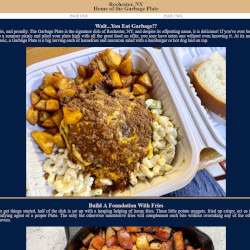
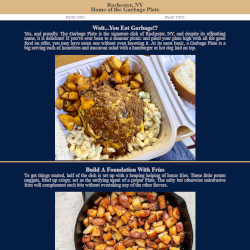
Add final 2-5 site files
Adjust 2-5-1 for image content, add 2-5-2 files, update main portfolio page

diff --git a/ChallengeActivities.html b/ChallengeActivities.html
@@ -109,7 +109,7 @@
                     <a href="Assignments/Challenge/2-5-1Story/story_layout1.html">
                     <img src="Assignments/Challenge/2-5-1Story/images/screengrab1.jpg"
                         alt="Story Website One"></a>
-                    <h4>Assignment 2-5</h4>
+                    <h4>Assignment 2-5-1</h4>
                     <a href="Assignments/Challenge/2-5-1Story/story_layout1.html">
                         <h2>Activity Page<br>Story Page One</h2></a>
                     <p>
@@ -121,7 +121,7 @@
                     </q>
                     </p>
                     <div class="details">
-                        Completed: 5.10.23<br>Final Grade: Pending
+                        Completed: 5.12.23<br>Final Grade: Pending
                     </div>
                 </div>
             </li>
@@ -130,7 +130,7 @@
                     <a href="Assignments/Challenge/2-5-1Story/story_layout2.html">
                     <img src="Assignments/Challenge/2-5-1Story/images/screengrab2.jpg"
                         alt="Story Website Two"></a>
-                    <h4>Assignment 2-5</h4>
+                    <h4>Assignment 2-5-1</h4>
                     <a href="Assignments/Challenge/2-5-1Story/story_layout2.html">
                         <h2>Activity Page<br>Story Page Two</h2></a>
                     <p>
@@ -142,11 +142,30 @@
                     </q>
                     </p>
                     <div class="details">
-                        Completed: 5.10.23<br>Final Grade: Pending
+                        Completed: 5.12.23<br>Final Grade: Pending
                     </div>
                 </div>
             </li>
-
+            <li>
+                <div>
+                    <a href="Assignments/Challenge/2-5-2Schedule/myschedule.html">
+                    <img src="Assignments/Challenge/2-5-2Schedule/images/screengrab.jpg"
+                        alt="Story Website Two"></a>
+                    <h4>Assignment 2-5-2</h4>
+                    <a href="Assignments/Challenge/2-5-2Schedule/myschedule.html">
+                        <h2>Activity Page<br>My Schedule</h2></a>
+                    <p>
+                    #SummerLiving<br>
+                    <q>Tables make sense, but definately require a bit of code
+                        and check to ensure everything is lining up. Thank
+                        goodness we were able to skip some rows, seeing a day
+                        so filled up with sleeping made me feel unproductive!</q>
+                    </p>
+                    <div class="details">
+                        Completed: 5.12.23<br>Final Grade: Pending
+                    </div>
+                </div>
+            </li>
             <li>
                 <div>
                     <img src="Assignments/comingsoon.jpg"

diff --git a/Assignments/Challenge/2-5-2Schedule/myschedule.html b/Assignments/Challenge/2-5-2Schedule/myschedule.html
@@ -22,7 +22,7 @@
       <h1>Chris' Schedule Summer 2023</h1>
     </header>
 
-    <article>
+    <div class="tableContainer">
       <table>
          <caption>Study Blocks Subject to Extention as Needed</caption>
          <colgroup>
@@ -111,23 +111,23 @@
             </tr>
             <tr>
                <th>7:00 PM</th>
-               <td rowspan="4">Stream on Twitch
-                  <img src="images/twitch.png">
+               <td rowspan="4">Stream on Twitch<br>
+                  <img src="images/twitch.png" alt="Twitch.tv logo">
                </td>
-               <td rowspan="4">Dungeons & Dragons
-                  <img src="images/dnd.png">
+               <td rowspan="4">Dungeons & Dragons<br>
+                  <img src="images/dnd.png" alt="Dungeons & Dragons logo">
                </td>
-               <td rowspan="4">Stream on Twitch
-                  <img src="images/twitch.png">
+               <td rowspan="4">Stream on Twitch<br>
+                  <img src="images/twitch.png" alt="Twitch.tv logo">
                </td>
-               <td rowspan="4">Stream on Twitch
-                  <img src="images/twitch.png">
+               <td rowspan="4">Stream on Twitch<br>
+                  <img src="images/twitch.png" alt="Twitch.tv logo">
                </td>
-               <td rowspan="4">Date Night w/ Wife
-                  <img src="images/date.png">
+               <td rowspan="4">Date Night w/ Wife<br>
+                  <img src="images/date.png" alt="Picture of wedding rings">
                </td>
-               <td rowspan="4">Games w/ Friends
-                  <img src="images/pc.png">
+               <td rowspan="4">Games w/ Friends<br>
+                  <img src="images/pc.png" alt="Picture of a computer">
                </td>
                <td rowspan="4">Open Schedule</td>
             </tr>
@@ -150,7 +150,7 @@
 
          </tfoot>
       </table>
-    </article>
+   </div>
 
     <footer>
 

diff --git a/Assignments/Challenge/2-5-1Story/styles/pageTwo.css b/Assignments/Challenge/2-5-1Story/styles/pageTwo.css
@@ -46,7 +46,7 @@ nav {
 }
 
 nav a {
-    display: flexbox;
+    display: run-in;
     width: 50%;
     padding-left: 10em;
     padding-right: 10em;
@@ -66,6 +66,12 @@ div:first-of-type {
 
 div:last-of-type {
     border-bottom: none;
+}
+
+section.text {
+    width: 75%;
+    margin-left: auto;
+    margin-right: auto;
 }
 
 section.text p {
@@ -92,7 +98,7 @@ div section p {
 }
 
 div section img {
-    width: 75%;
+    width: 50%;
     margin-left: auto;
     margin-right: auto;
 }

diff --git a/Assignments/Challenge/2-5-2Schedule/styles/style.css b/Assignments/Challenge/2-5-2Schedule/styles/style.css
@@ -29,17 +29,22 @@ h1 {
    text-align: center;
    padding-top: .5em;
    padding-bottom: .5em;
+   width: 50%;
+   margin: auto;
 }
 
 /* Table Styles */
 table {
    table-layout: auto;
+   width: 50%;
+   margin-left: auto;
+   margin-right: auto;
    border-collapse: collapse;
    background-color: #456990;
 }
 
 th {
-   background-color: #F45B69;
+   background-color: #864406;
    text-transform: uppercase;
    font-weight: bold;
    color: antiquewhite;

diff --git a/Assignments/Challenge/2-5-1Story/styles/pageOne.css b/Assignments/Challenge/2-5-1Story/styles/pageOne.css
@@ -1,5 +1,6 @@
 @charset "utf-8";
 
+
 /*
    Activity Page
    Story Page One
@@ -58,7 +59,9 @@ nav {
 
 div {
    clear: both;
+   display: flex;
    justify-content: center;
+   align-items: center;
 }
 
 div section {
